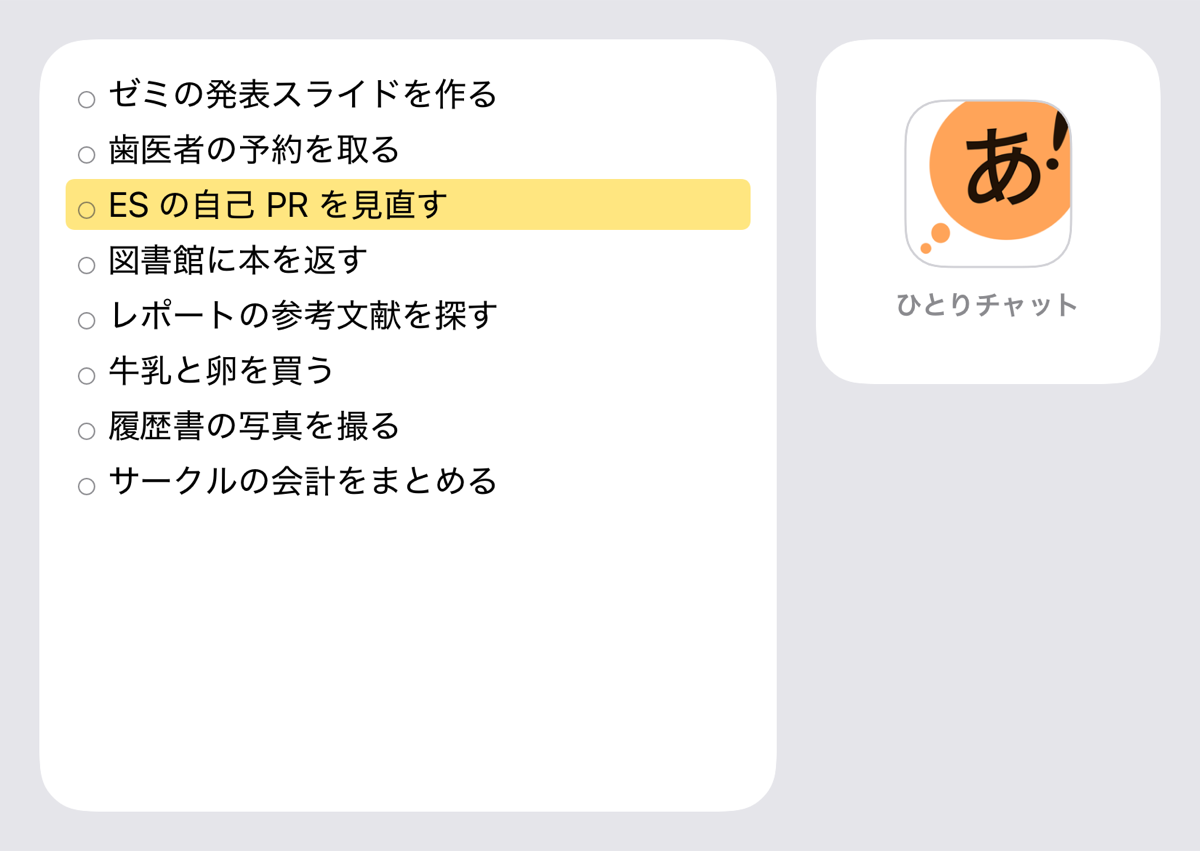
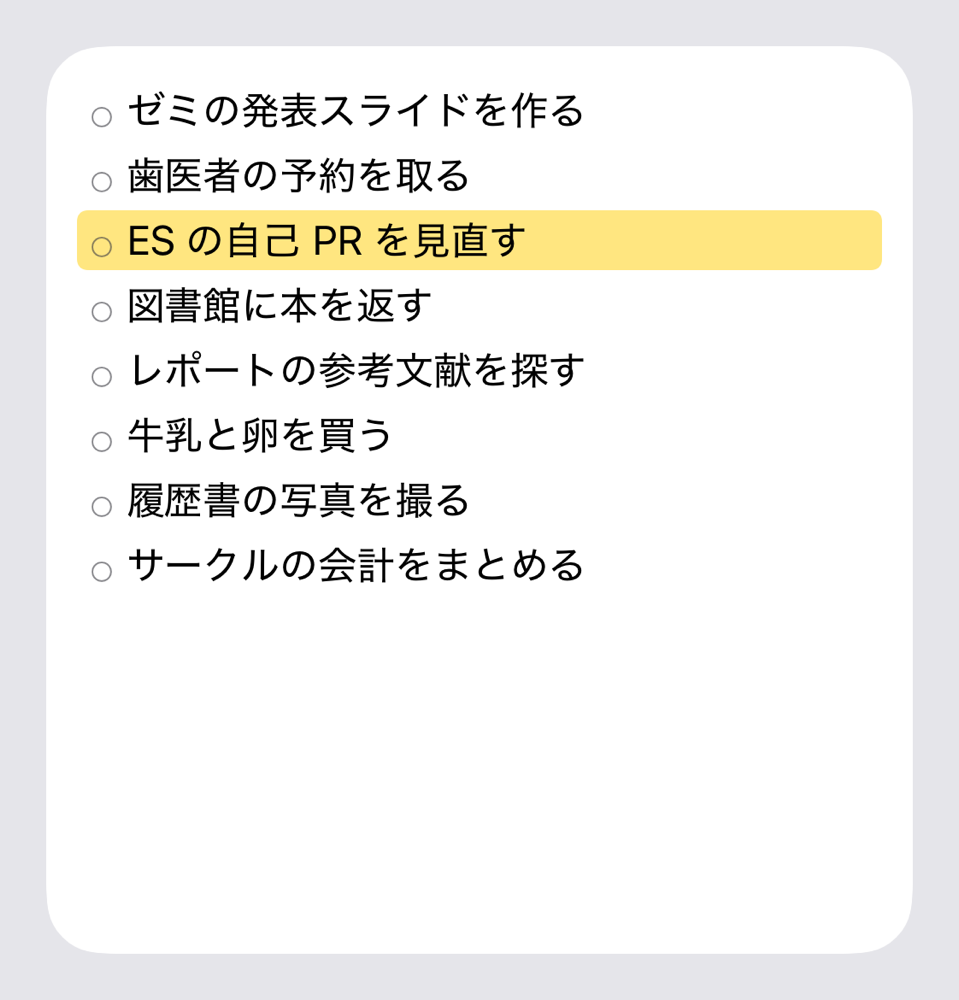
README の冒頭にアプリのアイコンを載せ、ウィジェットの画像を大サイズのタスクのウィジェットだけにする

diff --git a/README.md b/README.md
@@ -1,5 +1,7 @@
 # あたまんなか
 
+<img src="docs/images/app-icon.png" alt="あたまんなかのアプリアイコン。オレンジの考えごとの吹き出しに「あ!」と書かれている" width="120">
+
 頭に浮かんだことを、ひとりチャットのように書き流す iOS アプリです。
 書いたメモのうち「やること」になったものは、スワイプひとつでタスクにできます。
 未完了のタスクは、ホーム画面のウィジェットで確認できます。
@@ -12,7 +14,7 @@ Web 版の試作(HTML/JavaScript)で使い心地を確かめてから、SwiftUI 
   <img src="docs/images/chat-dark.png" alt="ダークモードのひとりチャットの画面" width="240">
 </p>
 <p>
-  <img src="docs/images/widgets.png" alt="ホーム画面のウィジェット。左は大サイズのタスクのウィジェットで1行に黄色が敷かれ、右は小サイズのひとりチャットを開くウィジェット" width="560">
+  <img src="docs/images/widgets.png" alt="大サイズのタスクのウィジェット。未完了のタスクが並び、1行に黄色が敷かれている" width="320">
 </p>
 
 ## 機能
